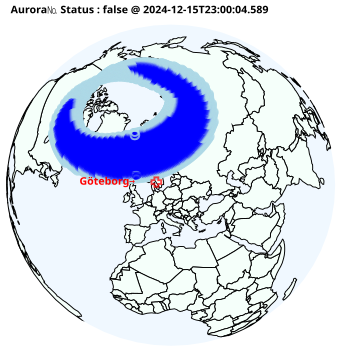
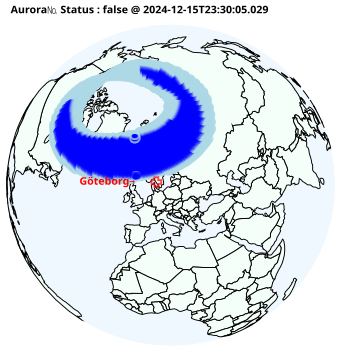
20241215233018 added aur.html

diff --git a/aur.html b/aur.html
@@ -7,6 +7,6 @@
 <body>
     <h1>Aurora Watch</h1>
     <img src="a.png" alt="Aurora Image" style="width:100%;max-width:600px;">
-    <p>Aurora Level 🌌= (1.5) was observed. (2024-12-15T23:00:04.589)</p>
+    <p>Aurora Level 🌌= (1.0) was observed. (2024-12-15T23:30:05.029)</p>
 </body>
 </html>
